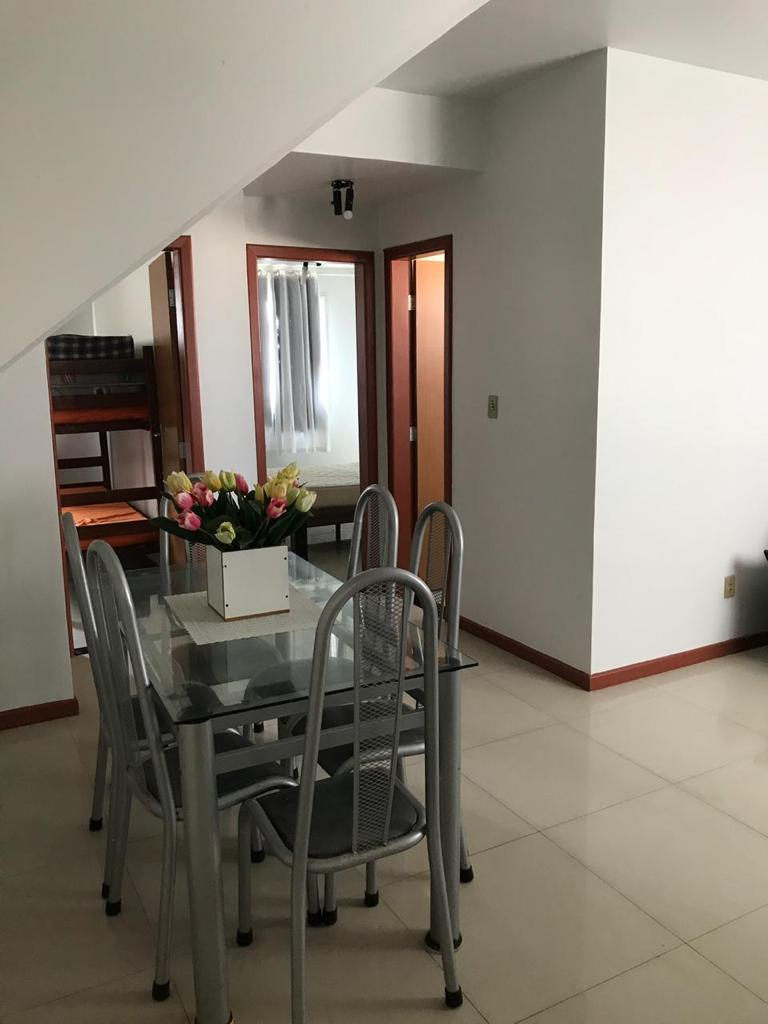
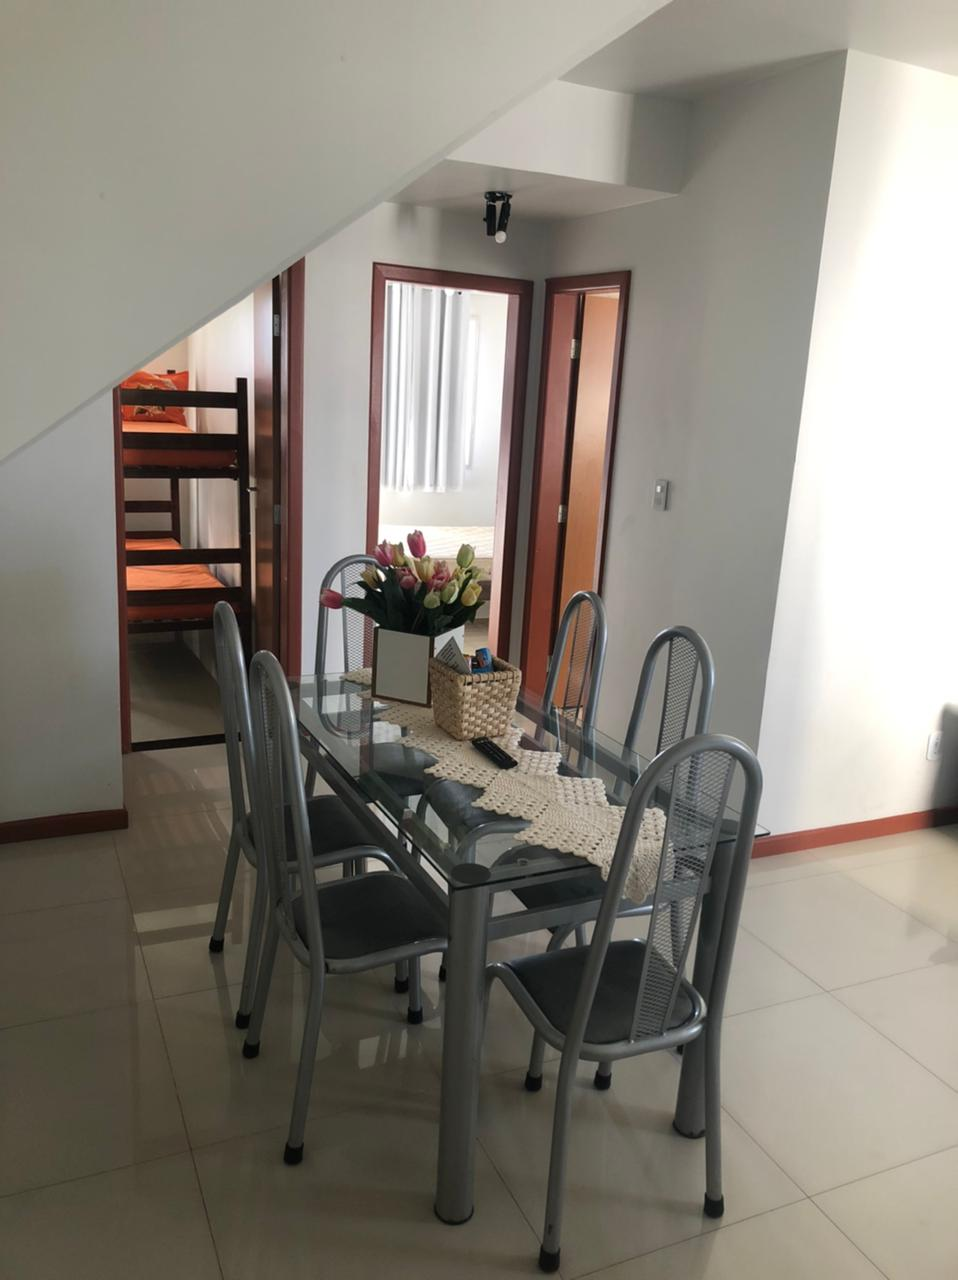
Fotos Actualizadas

diff --git a/src/components/pages/Serviços.js b/src/components/pages/Serviços.js
@@ -6,28 +6,28 @@ function Serviços() {
   return (
     <div className="serviços-container">
       <div className="serviços-wrapper">
-        <h2 className="serviços-title">Serviços do Edifico</h2>
+        <h2 className="serviços-title">Serviços do Edifício</h2>
         <ul className="serviços-list">
           <li className="serviços-item">Elevador</li>
           <li className="serviços-item">
             Uma vaga de garagem coberta dentro
-            <br /> do edificio incluida
+            <br /> do edifício incluida
           </li>
           <li className="serviços-item">
-            Estacionameto pago em frente ao edificio
+            Estacionameto pago em frente ao edifício
           </li>
           <li className="serviços-item">
             Entrada Principal e entrada de banhista
           </li>
-          <li className="serviços-item">Torneira para lavar os pes</li>
+          <li className="serviços-item">Torneira para lavar os pés</li>
           <li className="serviços-item">
             Carrinho de compras para subir as malas
           </li>
           <li className="serviços-item">
-            Cameras de segurança em areas
-            <br /> comuns do edifico
+            Câmeras de segurança em areas
+            <br /> comuns do edifício
           </li>
-          <li className="serviços-item">Porteria ate 21:00 hs</li>
+          <li className="serviços-item">Portaria ate às 21:00 hs</li>
         </ul>
       </div>
       <div className="serviços-wrapper">
@@ -47,20 +47,20 @@ function Serviços() {
         </ul>
       </div>
       <div className="serviços-wrapper">
-        <h2 className="serviços-title">Regras do Edificio</h2>
+        <h2 className="serviços-title">Regras do Edifício</h2>
         <ul className="serviços-list">
           <li className="serviços-item">
-            Uso de mascara obrigatoria en areas comuns
+            Uso de mascara obrigatoria em areas comuns
           </li>
-          <li className="serviços-item">Horario de silencio as 22:00</li>
+          <li className="serviços-item">Horario de silencio 22:00</li>
         </ul>
       </div>
       <div className="foot-wrapper">
         <h3 className="serviços-title">
-          Horario de entrada no Apartamento: &nbsp; Desde 14:00 hs
+          Horario de entrada no Apartamento: &nbsp; Desde às 14:00 hs
         </h3>
         <h3 className="serviços-title">
-          Horario de saida do Apartamento: &nbsp; Ate 12:00 hs
+          Horario de saída do Apartamento: &nbsp; Até 12:00 hs
         </h3>
       </div>
     </div>

diff --git a/src/components/pages/Serviços.css b/src/components/pages/Serviços.css
@@ -45,35 +45,35 @@
   padding-bottom: 0.8%;
 }
 
-/* Extra small devices (phones, 600px and down) */
+/* Dispositivos muy pequeños (Telefonos hasta 600px) */
 @media only screen and (max-width: 600px) {
   .serviços-wrapper {
     max-width: 250px;
   }
 }
 
-/* Small devices (portrait tablets and large phones, 600px and up) */
+/* Dispositivos pequeños (Tablets Portrait y telefonos grandes de mas de 600px) */
 @media only screen and (min-width: 600px) {
   .serviços-wrapper {
     max-width: 350px;
   }
 }
 
-/* Medium devices (landscape tablets, 768px and up) */
+/* Dispositivos medianos (Tablets landscape de mas de 768px) */
 @media only screen and (min-width: 768px) {
   .serviços-wrapper {
     max-width: 450px;
   }
 }
 
-/* Large devices (laptops/desktops, 992px and up) */
+/* Dispositivos grandes(Laptop/Pc de escritorio, de mas 992px) */
 @media only screen and (min-width: 992px) {
   .serviços-wrapper {
     max-width: 550px;
   }
 }
 
-/* Extra large devices (large laptops and desktops, 1200px and up) */
+/* Dispositivos extra grandes (laptops grandes y PCs de escritorio de mas de 1200px) */
 @media only screen and (min-width: 1200px) {
   .serviços-wrapper {
     max-width: 650px;

diff --git a/src/components/pages/AptSlider.js b/src/components/pages/AptSlider.js
@@ -5,7 +5,7 @@ import { FaAngleDoubleLeft, FaAngleDoubleRight } from "react-icons/fa";
 const AptSlider = ({ slides }) => {
   const [current, setCurrent] = useState(0);
   const Arrlenght = slides.length;
-
+  // Con estas arrow functions se logra que ademas de pasar las fotos, al llegar a la ultima foto y hacer click en nextSlide se pase a la primer foto y con prevSlide se pase de la primera a la ultima.
   const nextSlide = () => {
     setCurrent(current === Arrlenght - 1 ? 0 : current + 1);
   };
@@ -13,6 +13,7 @@ const AptSlider = ({ slides }) => {
   const prevSlide = () => {
     setCurrent(current === 0 ? Arrlenght - 1 : current - 1);
   };
+  // Chequear que el array cumpla con las condiciones necesarias
   if (!Array.isArray(slides) || Arrlenght <= 0) {
     return null;
   }
@@ -21,6 +22,7 @@ const AptSlider = ({ slides }) => {
     <section className="slider">
       <FaAngleDoubleLeft className="left-arrow" onClick={prevSlide} />
       <FaAngleDoubleRight className="right-arrow" onClick={nextSlide} />
+      {/* Se mapea el array para renderizar las imagenes */}
       {AptSliderData.map((slide, index) => {
         return (
           <div

diff --git a/src/App.css b/src/App.css
@@ -17,7 +17,6 @@
 }
 
 .apartamento {
-  /* background-image: url("./images/depto/piezap1.jpeg"); */
   background-position: center;
   background-size: cover;
   background-repeat: no-repeat;
@@ -26,7 +25,6 @@
 }
 
 .pontos {
-  /* background-image: url("images/guarapari/praiadomorro.jpg"); */
   background-position: center;
   background-size: fill;
   background-repeat: no-repeat;
@@ -35,7 +33,6 @@
 }
 
 .serviços {
-  /* background-image: url("./images/guarapari/praiadomorro.jpg"); */
   background-position: center;
   background-size: fill;
   background-repeat: no-repeat;

diff --git a/src/components/Navbar.js b/src/components/Navbar.js
@@ -11,9 +11,11 @@ const Navbar = () => {
     <>
       <nav className="navbar">
         <div className="navbar-container">
+          {/* Se redirecciona a Home haciendo click en el logo o en Menu. */}
           <Link to="/" className="navbar-logo" onClick={closeMbMenu}>
             <i className="fas fa-umbrella-beach" />
           </Link>
+          {/* Menu de barras para version mobile. */}
           <div className="menu-icon" onClick={handleClick}>
             <i className={click ? "fas fa-times" : "fas fa-bars"}></i>
           </div>

diff --git a/src/components/pages/AptSliderData.js b/src/components/pages/AptSliderData.js
@@ -30,6 +30,12 @@ export const AptSliderData = [
     image: "/images/depto/cocina4.jpeg",
   },
   {
+    image: "/images/depto/cocina5.jpeg",
+  },
+  {
+    image: "/images/depto/cocina6.jpeg",
+  },
+  {
     image: "/images/depto/sala1.jpeg",
   },
   {
@@ -40,6 +46,9 @@ export const AptSliderData = [
   },
   {
     image: "/images/depto/sala4.jpeg",
+  },
+  {
+    image: "/images/depto/sala5.jpeg",
   },
   {
     image: "/images/depto/piezasec1.jpeg",

diff --git a/src/components/CardItem.js b/src/components/CardItem.js
@@ -5,6 +5,7 @@ const CardItem = (props) => {
   return (
     <>
       <li className="cards-item">
+        {/* Se utilizan las props almacenadas en Cards */}
         <Link className="cards-item-link" to={props.path}>
           <figure className="cards-item-wrap" data-category={props.label}>
             <img src={props.src} alt="Images" className="cards-item-img" />

diff --git a/src/components/pages/PontosItem.js b/src/components/pages/PontosItem.js
@@ -3,7 +3,9 @@ import React from "react";
 const PontosItem = (props) => {
   return (
     <>
+      {/* Para esta seccion se reutilizaron las clases utilizadas en CadItem */}
       <li className="cards-item">
+        {/* Con path se redirecciona a la localizacion en google maps */}
         <a
           className="cards-item-link"
           href={props.path}

diff --git a/src/components/HeroSection.css b/src/components/HeroSection.css
@@ -32,7 +32,7 @@ video {
   text-align: center;
   padding: 2rem;
 }
-
+/* Media querys para ajustar el tamaño de fuente y margenes */
 @media screen and (max-width: 960px) {
   .hero-container > h1 {
     font-size: 50px;

diff --git a/src/components/Cards.css b/src/components/Cards.css
@@ -62,6 +62,7 @@ h1 {
 }
 
 .cards-item-wrap::after {
+  /* Para el content se utiliza el atributo data-category que contiene props.label*/
   content: attr(data-category);
   position: absolute;
   bottom: 0;

diff --git a/src/components/Navbar.css b/src/components/Navbar.css
@@ -79,7 +79,7 @@
 .menu-icon {
   display: none;
 }
-
+/* Media query para activar el menu de barras mobile */
 @media screen and (max-width: 960px) {
   .NavbarItems {
     position: relative;
